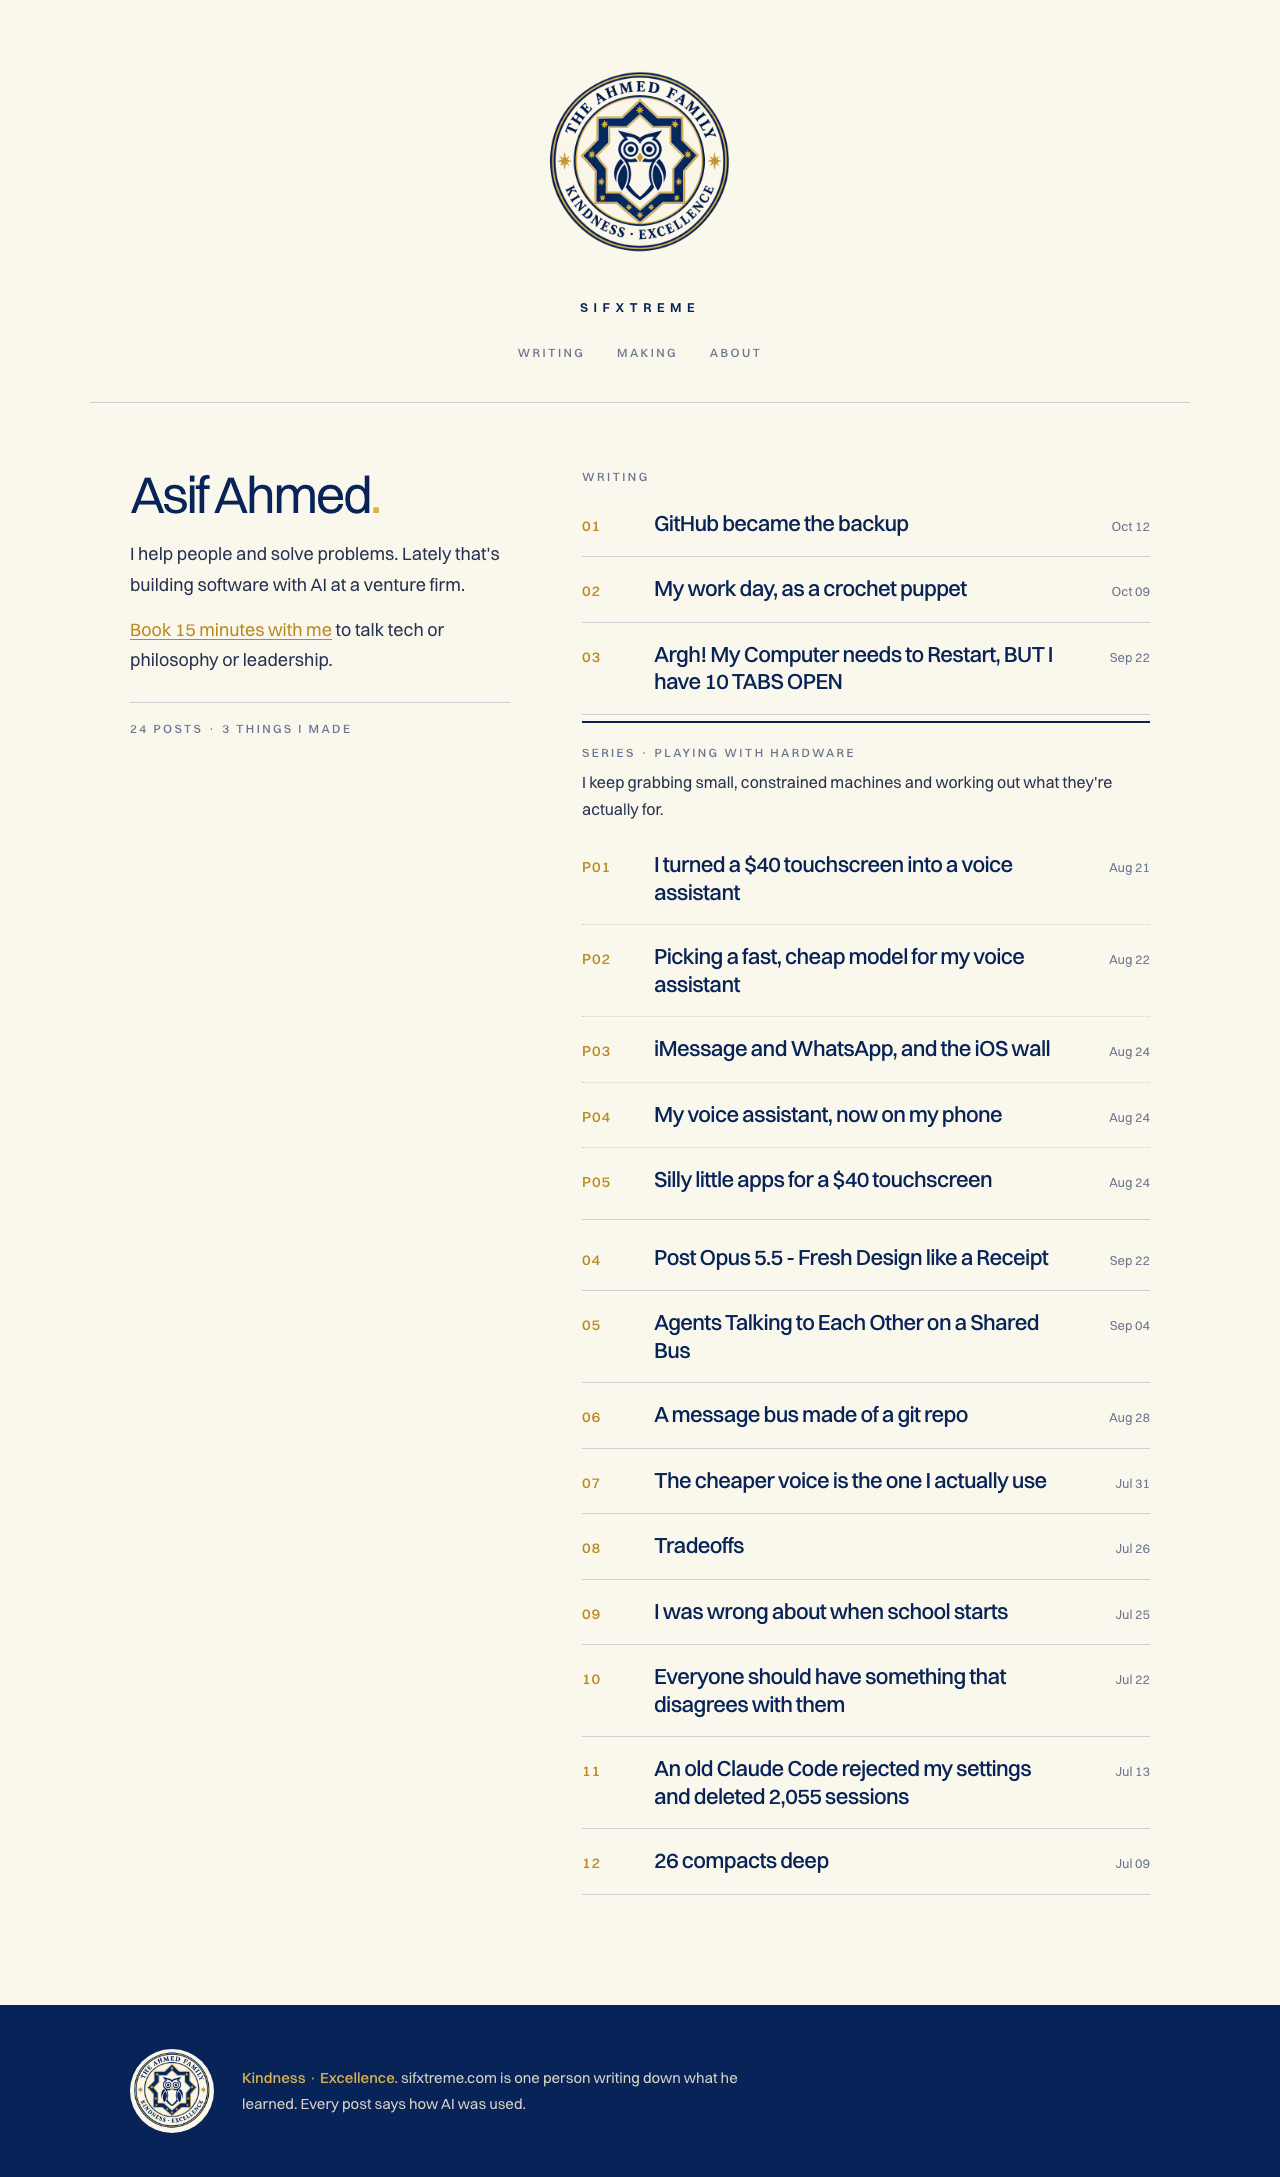
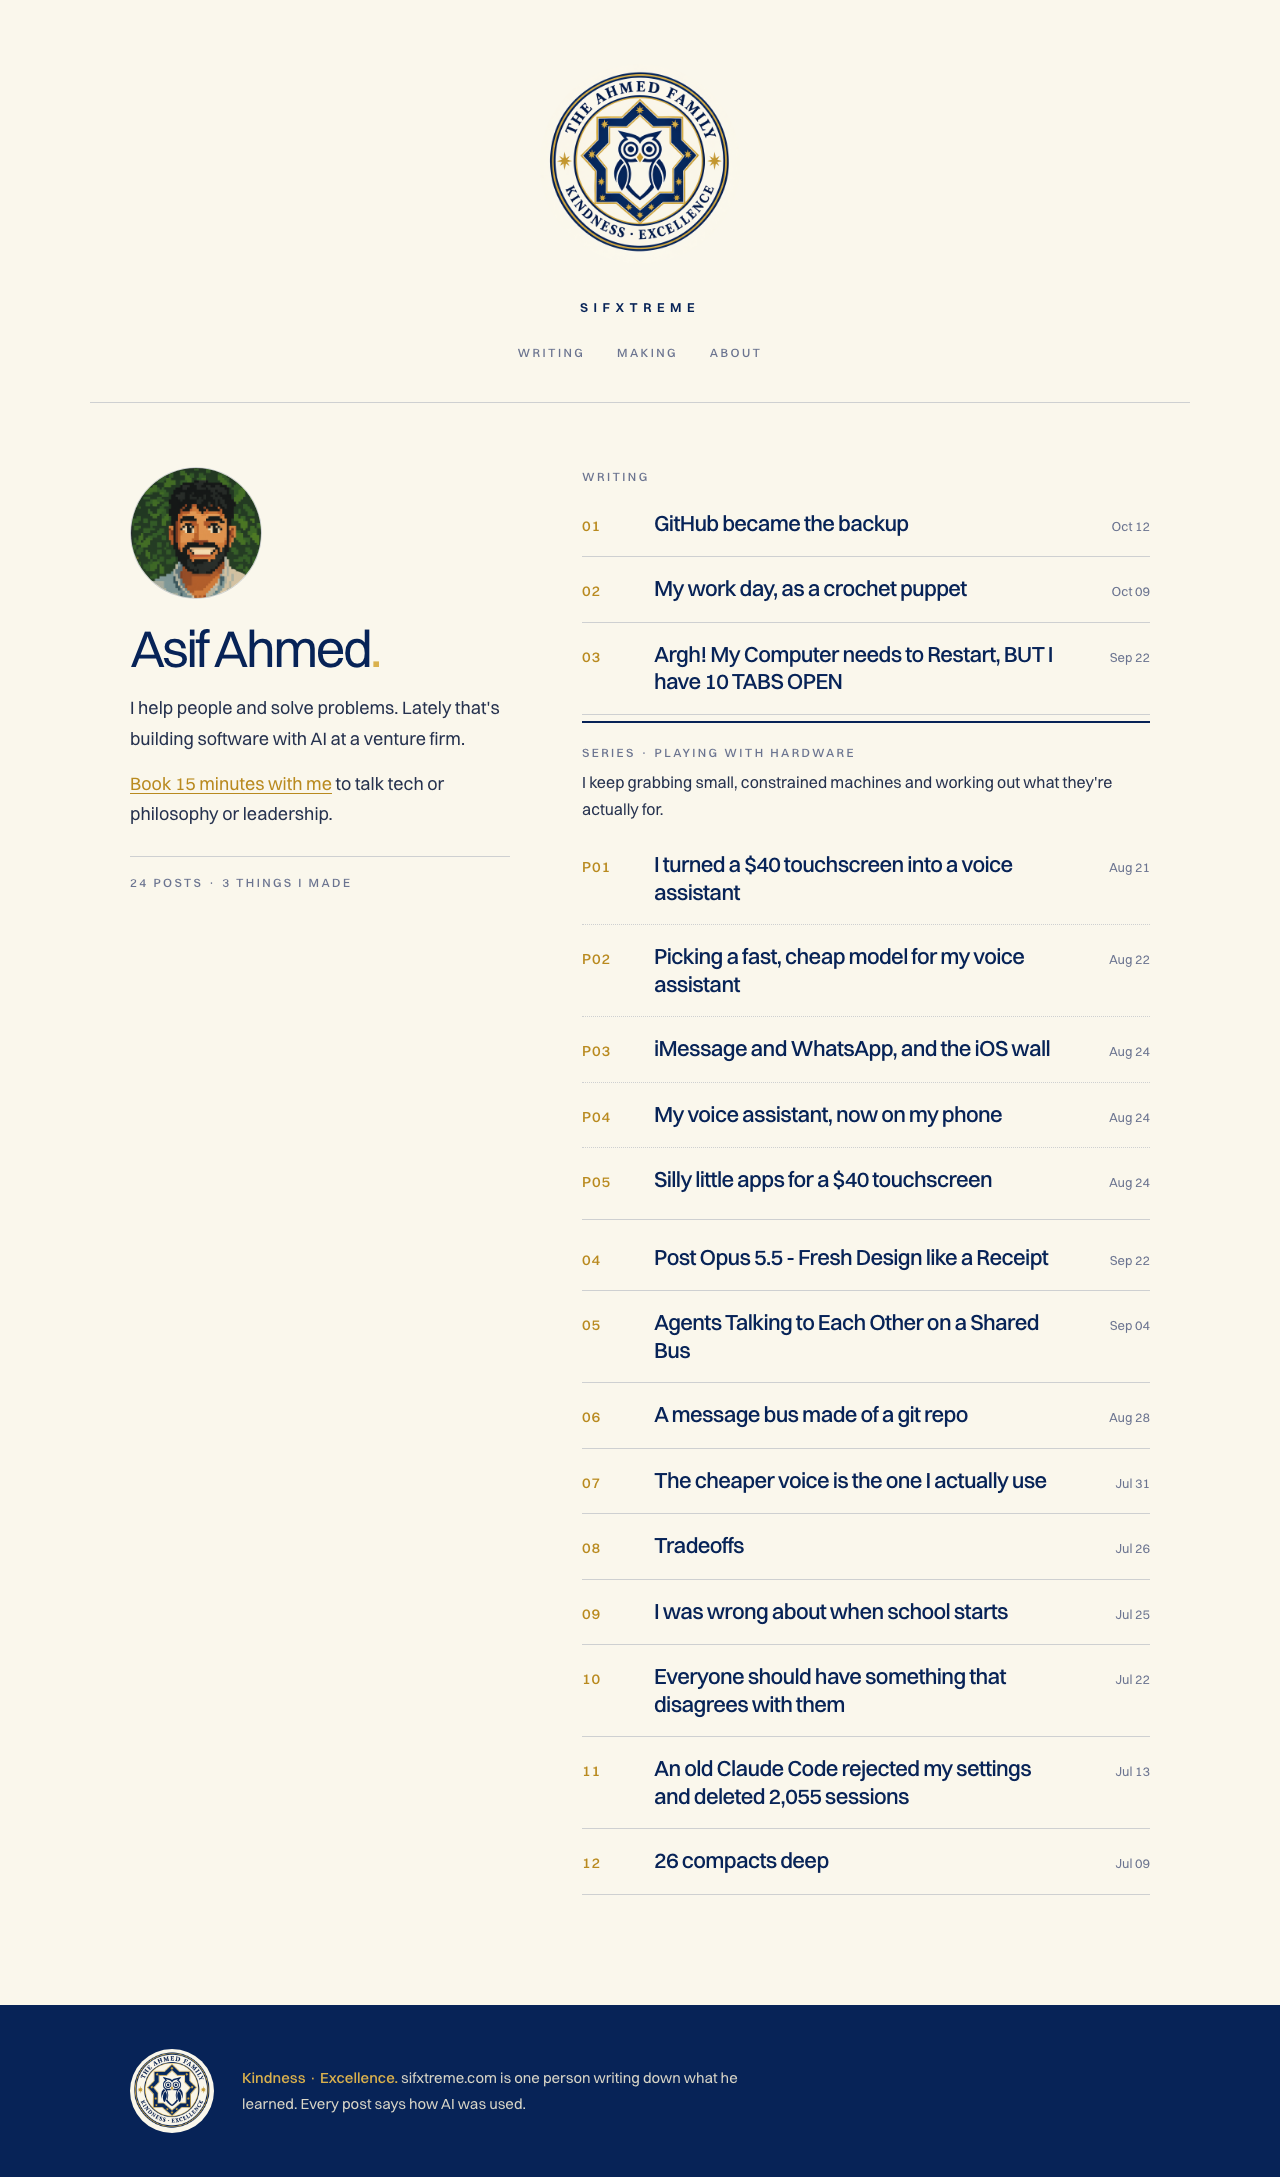
New-style mockups: add Asif's profile photo to each home page
Before: none of the three new-style mockups showed his profile photo, which the live home page has
After: photo on all three home pages (beside headline, above name, in header beside the owl); screenshots re-shot
Shot: none (mockups only, nothing deployed)
Verify: re-shot 12 screenshots; viewed 1, 2 and 3 home tops

Claude-Session: https://claude.ai/code/session_016ojUBPgmXXcEoKHLCzeHFu

Changed region(s): [[0.0938, 0.2186, 0.375, 0.3748]]

diff --git a/src/designs/2026-11-20-new-style/3-receipt-ledger/home.html b/src/designs/2026-11-20-new-style/3-receipt-ledger/home.html
@@ -1,4 +1,4 @@
-<!doctype html><html lang="en"><head><title>Asif Ahmed</title><meta charset="utf-8"><meta name="viewport" content="width=device-width,initial-scale=1"><link rel="stylesheet" href="../shared/fonts.css"><link rel="stylesheet" href="style.css"></head><body><div class="wrap"><header class="top"><a class="brand" href="#"><span class="seal-owl"></span>Asif Ahmed</a><nav><a href="#">Writing</a><a href="#">Making</a><a href="#">About</a></nav></header>
+<!doctype html><html lang="en"><head><title>Asif Ahmed</title><meta charset="utf-8"><meta name="viewport" content="width=device-width,initial-scale=1"><link rel="stylesheet" href="../shared/fonts.css"><link rel="stylesheet" href="style.css"></head><body><div class="wrap"><header class="top"><a class="brand" href="#"><span class="seal-owl"></span><img class="me" src="../../../assets/asif-head.png" alt="Asif Ahmed">Asif Ahmed</a><nav><a href="#">Writing</a><a href="#">Making</a><a href="#">About</a></nav></header>
 <div class="hero"><div><h1 class="big">I help people and solve problems<i>.</i></h1><p>Lately that's building software with AI at a venture firm. Every post here says how much of it the AI wrote, and what it cost to make.</p><p><a href="#">Book 15 minutes with me</a> to talk tech or philosophy or leadership.</p></div>
 <div class="tally"><span class="label">How this blog was made</span><div class="big">1,611 turns</div><div class="bar"><i class="hw" style="flex:4"></i><i class="as" style="flex:11"></i><i class="ai" style="flex:10"></i></div>
 <div class="leg"><span><i class="dot hw"></i>by hand</span><b>4</b></div><div class="leg"><span><i class="dot as"></i>with AI</span><b>11</b></div><div class="leg"><span><i class="dot ai"></i>by AI</span><b>10</b></div></div></div>

diff --git a/src/designs/2026-11-20-new-style/2-seal-forward/home.html b/src/designs/2026-11-20-new-style/2-seal-forward/home.html
@@ -1,6 +1,6 @@
 <!doctype html><html lang="en"><head><title>Asif Ahmed</title><meta charset="utf-8"><meta name="viewport" content="width=device-width,initial-scale=1"><link rel="stylesheet" href="../shared/fonts.css"><link rel="stylesheet" href="style.css"></head><body>
 <div class="mast"><span class="seal-full"></span><span class="word">sifxtreme</span><nav><a href="#">Writing</a><a href="#">Making</a><a href="#">About</a></nav></div>
-<div class="wrap"><div class="grid"><div><h1 class="hero">Asif Ahmed<i>.</i></h1><p>I help people and solve problems. Lately that's building software with AI at a venture firm.</p><p><a href="#">Book 15 minutes with me</a> to talk tech or philosophy or leadership.</p><div class="motto label">24 posts &middot; 3 things I made</div></div>
+<div class="wrap"><div class="grid"><div><img class="me" src="../../../assets/asif-head.png" alt="Asif Ahmed"><h1 class="hero">Asif Ahmed<i>.</i></h1><p>I help people and solve problems. Lately that's building software with AI at a venture firm.</p><p><a href="#">Book 15 minutes with me</a> to talk tech or philosophy or leadership.</p><div class="motto label">24 posts &middot; 3 things I made</div></div>
 <div><div class="label" style="margin-bottom:4px">Writing</div>
 <a class="it" href="#"><span class="no">01</span><span class="t">GitHub became the backup</span><span class="d">Oct 12</span></a>
 <a class="it" href="#"><span class="no">02</span><span class="t">My work day, as a crochet puppet</span><span class="d">Oct 09</span></a>

diff --git a/src/designs/2026-11-20-new-style/1-776-family/home.html b/src/designs/2026-11-20-new-style/1-776-family/home.html
@@ -1,7 +1,7 @@
 <!doctype html><html lang="en"><head><title>Asif Ahmed</title><meta charset="utf-8"><meta name="viewport" content="width=device-width,initial-scale=1"><link rel="stylesheet" href="../shared/fonts.css"><link rel="stylesheet" href="style.css"></head><body><div class="wrap"><header class="top"><a class="brand" href="#"><span class="seal-full"></span>Asif Ahmed</a><nav><a class="on" href="#">Writing</a><a href="#">Making</a><a href="#">About</a></nav></header>
-<h1 class="hero">I help people and solve problems<i>.</i></h1>
+<div class="herow"><div><h1 class="hero">I help people and solve problems<i>.</i></h1>
 <p class="sub">Lately that's building software with AI at a venture firm.</p>
-<p class="cta"><a href="#">Book 15 minutes with me</a> to talk tech or philosophy or leadership.</p>
+<p class="cta"><a href="#">Book 15 minutes with me</a> to talk tech or philosophy or leadership.</p></div><img class="me" src="../../../assets/asif-head.png" alt="Asif Ahmed"></div>
 <section class="block"><div class="sechead"><span class="label">Writing</span><span class="label">24 posts</span></div>
 <a class="row" href="#"><span class="d">Oct 12</span><span class="t">GitHub became the backup</span><span class="m">by AI · 118t</span></a>
 <a class="row" href="#"><span class="d">Oct 09</span><span class="t">My work day, as a crochet puppet</span><span class="m">by AI · 69t</span></a>

diff --git a/src/designs/2026-11-20-new-style/3-receipt-ledger/post.html b/src/designs/2026-11-20-new-style/3-receipt-ledger/post.html
@@ -1,4 +1,4 @@
-<!doctype html><html lang="en"><head><title>An old Claude Code rejected my settings</title><meta charset="utf-8"><meta name="viewport" content="width=device-width,initial-scale=1"><link rel="stylesheet" href="../shared/fonts.css"><link rel="stylesheet" href="style.css"></head><body><div class="wrap"><header class="top"><a class="brand" href="#"><span class="seal-owl"></span>Asif Ahmed</a><nav><a href="#">Writing</a><a href="#">Making</a><a href="#">About</a></nav></header>
+<!doctype html><html lang="en"><head><title>An old Claude Code rejected my settings</title><meta charset="utf-8"><meta name="viewport" content="width=device-width,initial-scale=1"><link rel="stylesheet" href="../shared/fonts.css"><link rel="stylesheet" href="style.css"></head><body><div class="wrap"><header class="top"><a class="brand" href="#"><span class="seal-owl"></span><img class="me" src="../../../assets/asif-head.png" alt="Asif Ahmed">Asif Ahmed</a><nav><a href="#">Writing</a><a href="#">Making</a><a href="#">About</a></nav></header>
 <article><div class="label">Writing &middot; Jul 13, 2026</div>
 <h1 class="title">An old Claude Code rejected my settings and deleted 2,055 sessions<i>.</i></h1>
 <div class="problem"><span class="label">The question I could not answer</span>Prevent an old Claude binary from deleting sessions after rejecting settings.</div>

diff --git a/src/designs/2026-11-20-new-style/1-776-family/style.css b/src/designs/2026-11-20-new-style/1-776-family/style.css
@@ -59,3 +59,5 @@ figcaption{font-size:13px;color:var(--muted);margin-top:10px}
 .receipt dd{margin:2px 0 0;font-size:28px;letter-spacing:-.04em;color:var(--ink);font-weight:400}
 .receipt small{display:block;margin-top:16px;color:var(--muted);font-size:13px}
 @media(max-width:700px){.wrap{padding:0 20px}h1.hero{font-size:40px;margin-top:52px}.sub{font-size:18px}.row{grid-template-columns:52px 1fr;gap:12px}.row .m{display:none}.tiles{grid-template-columns:1fr}h1.title{font-size:32px}nav a{margin-left:16px}.receipt dl{grid-template-columns:1fr 1fr}section.block{margin-top:60px}.series{padding:20px 18px 6px}article h2{font-size:24px}}
+.herow{display:flex;justify-content:space-between;align-items:flex-end;gap:40px}.me{width:168px;height:168px;border-radius:50%;object-fit:cover;border:1px solid var(--line);margin-bottom:6px;flex:none}
+@media(max-width:700px){.herow{flex-direction:column-reverse;align-items:flex-start;gap:0}.me{width:84px;height:84px;margin-top:40px}.herow h1.hero{margin-top:22px}}

diff --git a/src/designs/2026-11-20-new-style/2-seal-forward/style.css b/src/designs/2026-11-20-new-style/2-seal-forward/style.css
@@ -45,3 +45,5 @@ figure svg{width:100%;height:auto;display:block}figcaption{font-size:13px;color:
 .d-txt{fill:var(--navy);font-family:Switzer,sans-serif;font-weight:500}.d-txt.d-sub{fill:var(--muted);font-weight:400}.d-txt.d-accent{fill:var(--navy)}
 .receipt{margin:44px 0 0;font-size:14px;color:var(--muted);border-top:1px solid var(--line);padding-top:14px}.receipt b{color:var(--navy);font-weight:500}
 @media(max-width:760px){.mast{padding-top:36px}.mast .seal-full{width:150px;height:150px}.wrap{padding:0 20px}.grid{grid-template-columns:1fr;gap:34px;padding-top:36px}h1.hero{font-size:38px}.it{grid-template-columns:40px 1fr;}.it .d{display:none}.it .t{font-size:19px}h1.title{font-size:34px}.pull{font-size:20px}.band .wrap{flex-direction:column;text-align:center}article{padding-top:36px}p.lead{font-size:19px}}
+.me{width:132px;height:132px;border-radius:50%;object-fit:cover;display:block;margin:0 0 22px;border:1px solid var(--line)}
+@media(max-width:760px){.me{width:96px;height:96px}}

diff --git a/src/designs/2026-11-20-new-style/3-receipt-ledger/style.css b/src/designs/2026-11-20-new-style/3-receipt-ledger/style.css
@@ -56,3 +56,4 @@ figure{margin:30px 0;background:var(--box);border:1px solid var(--line);border-r
 .sign{display:flex;align-items:center;gap:14px;margin:36px 0 0;padding-top:18px;border-top:1px solid var(--line);font-size:14px;color:var(--muted)}
 .sign .seal-owl{width:64px;height:64px;mix-blend-mode:multiply}
 @media(max-width:760px){.wrap{padding:0 20px}.hero{grid-template-columns:1fr;gap:28px;padding-top:44px}h1.big{font-size:40px}.lh{display:none}.lr{grid-template-columns:48px 1fr 40px;gap:12px}.lr .h{display:none}.making{grid-template-columns:1fr}h1.title{font-size:32px}article{padding-top:34px}.meta{gap:12px}footer{flex-direction:column;gap:6px}}
+.brand .me{width:36px;height:36px;border-radius:50%;object-fit:cover;margin-left:-4px;border:1px solid var(--paper)}

diff --git a/src/designs/2026-11-20-new-style/COMPARE.md b/src/designs/2026-11-20-new-style/COMPARE.md
@@ -9,6 +9,7 @@ updated: 2026-11-20
 
 Pick direction 3, the receipt ledger: it is the only one that looks like nothing else on the web, because it shows what already makes the blog his.
 Direction 1 is the safest. Direction 2 is the most handsome but says "family site", not "Asif's notes".
+His profile photo (`src/assets/asif-head.png`, the one on the live home page) is on every home page: right of the headline in 1, above his name in 2, next to the name in the header in 3, with the owl as the site mark. The live post pages do not show it, so only 3 carries it in the post header.
 All three are static mockups. Nothing is deployed, `global.css` and the live layouts are untouched.
 
 [!ASK] Which direction, and does the seal go on the public site?
